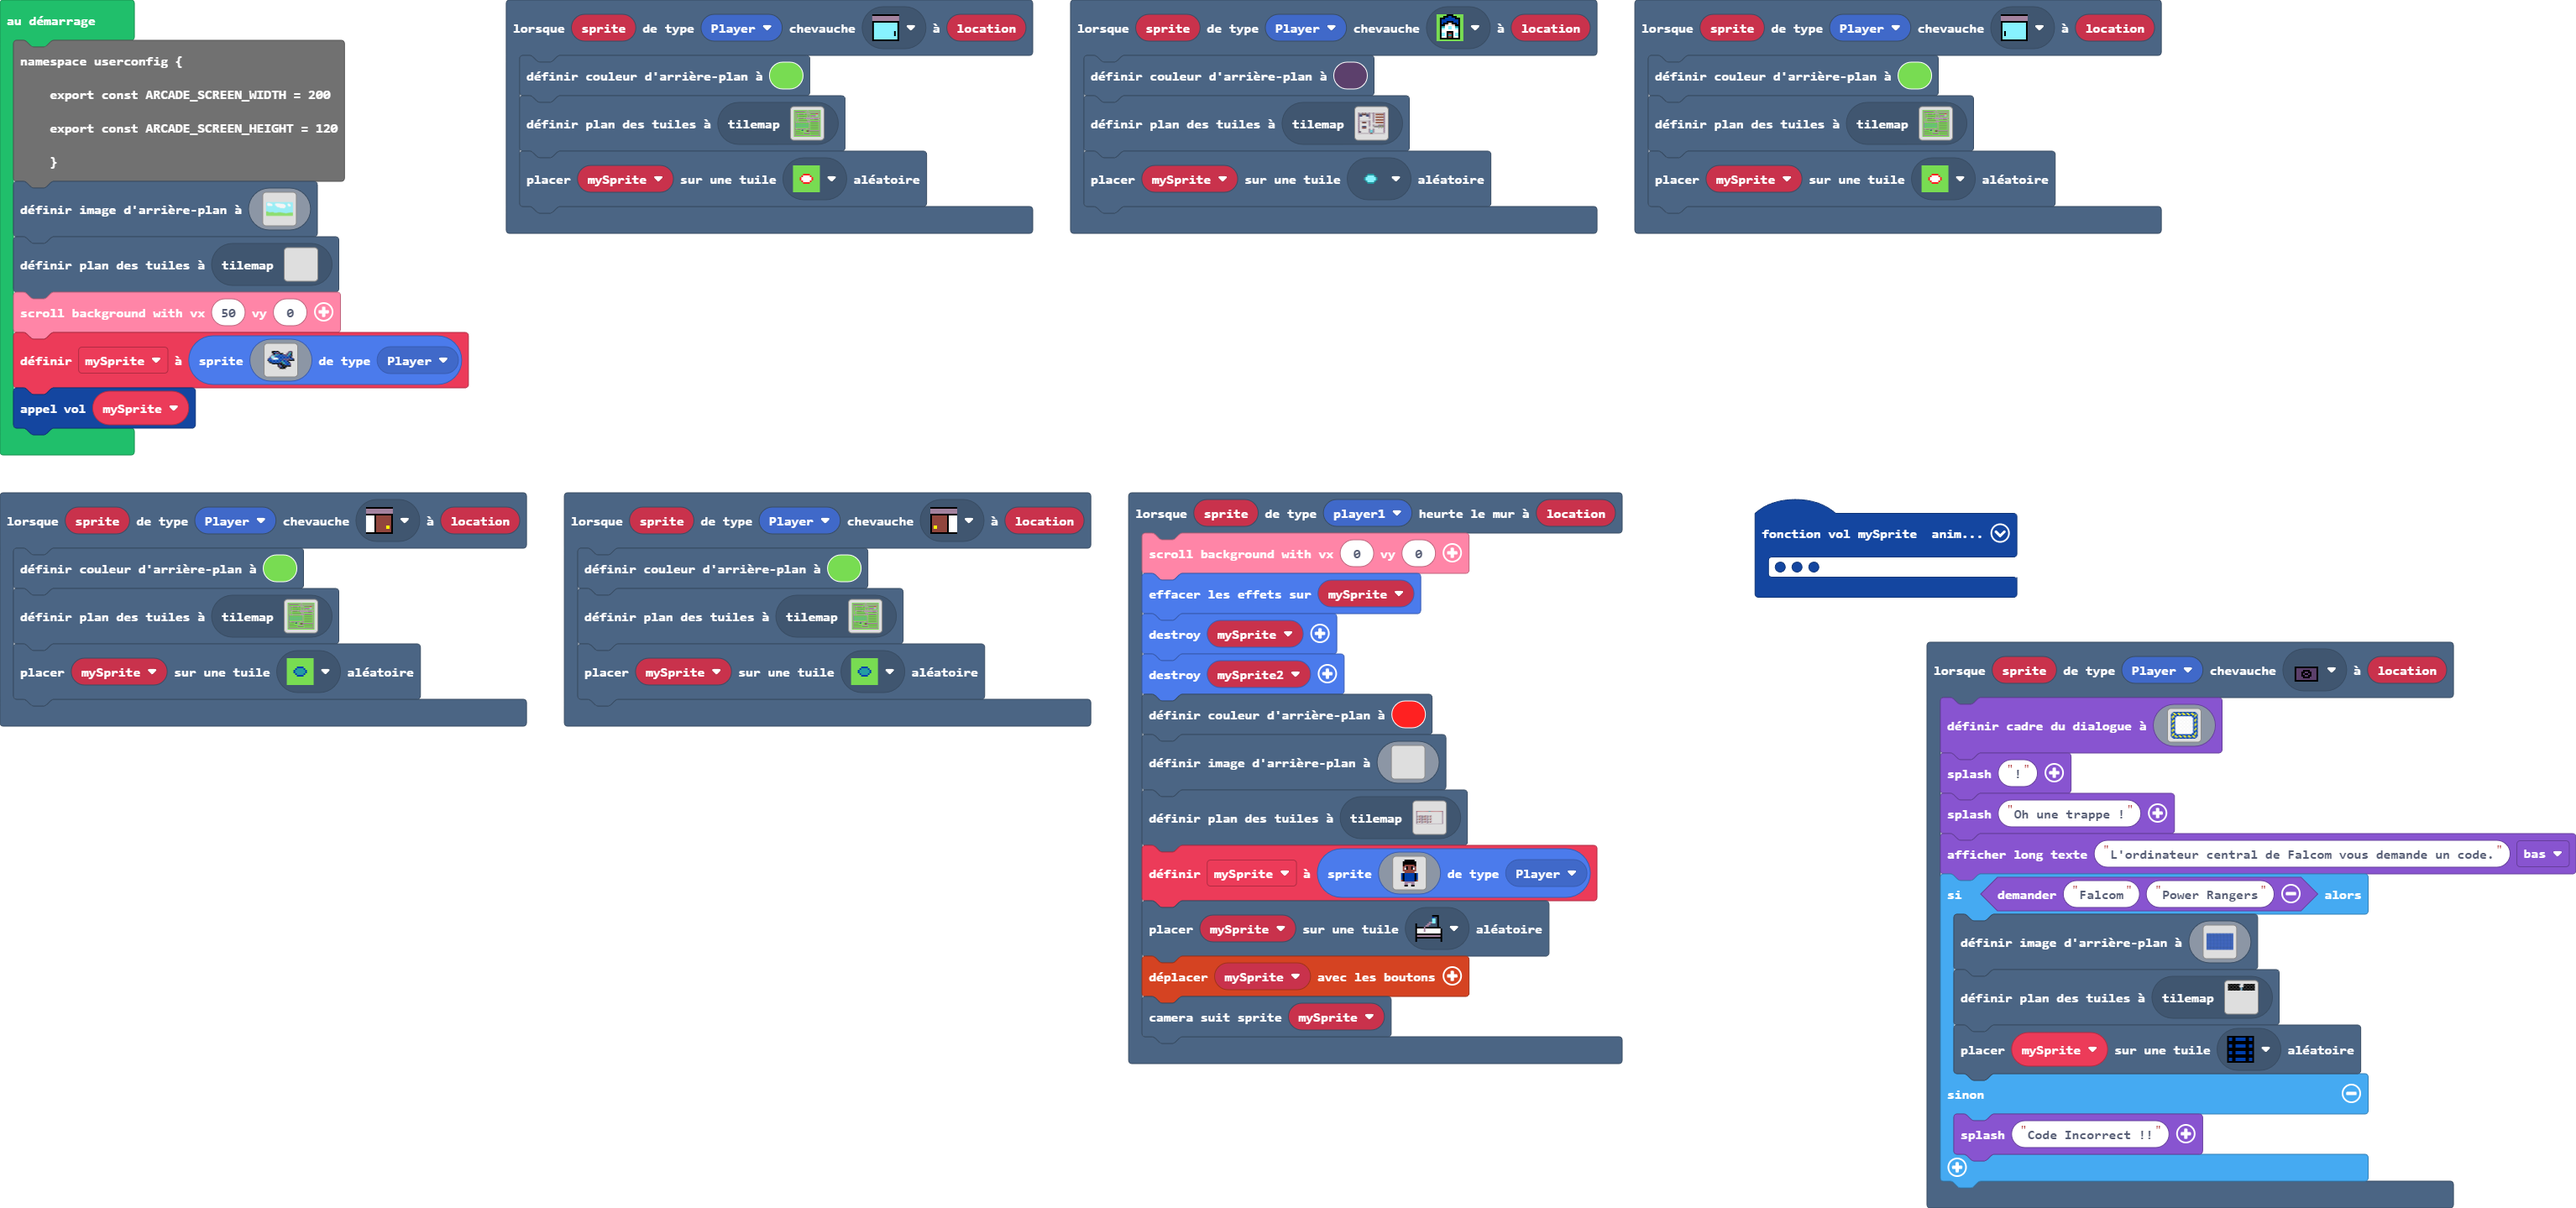
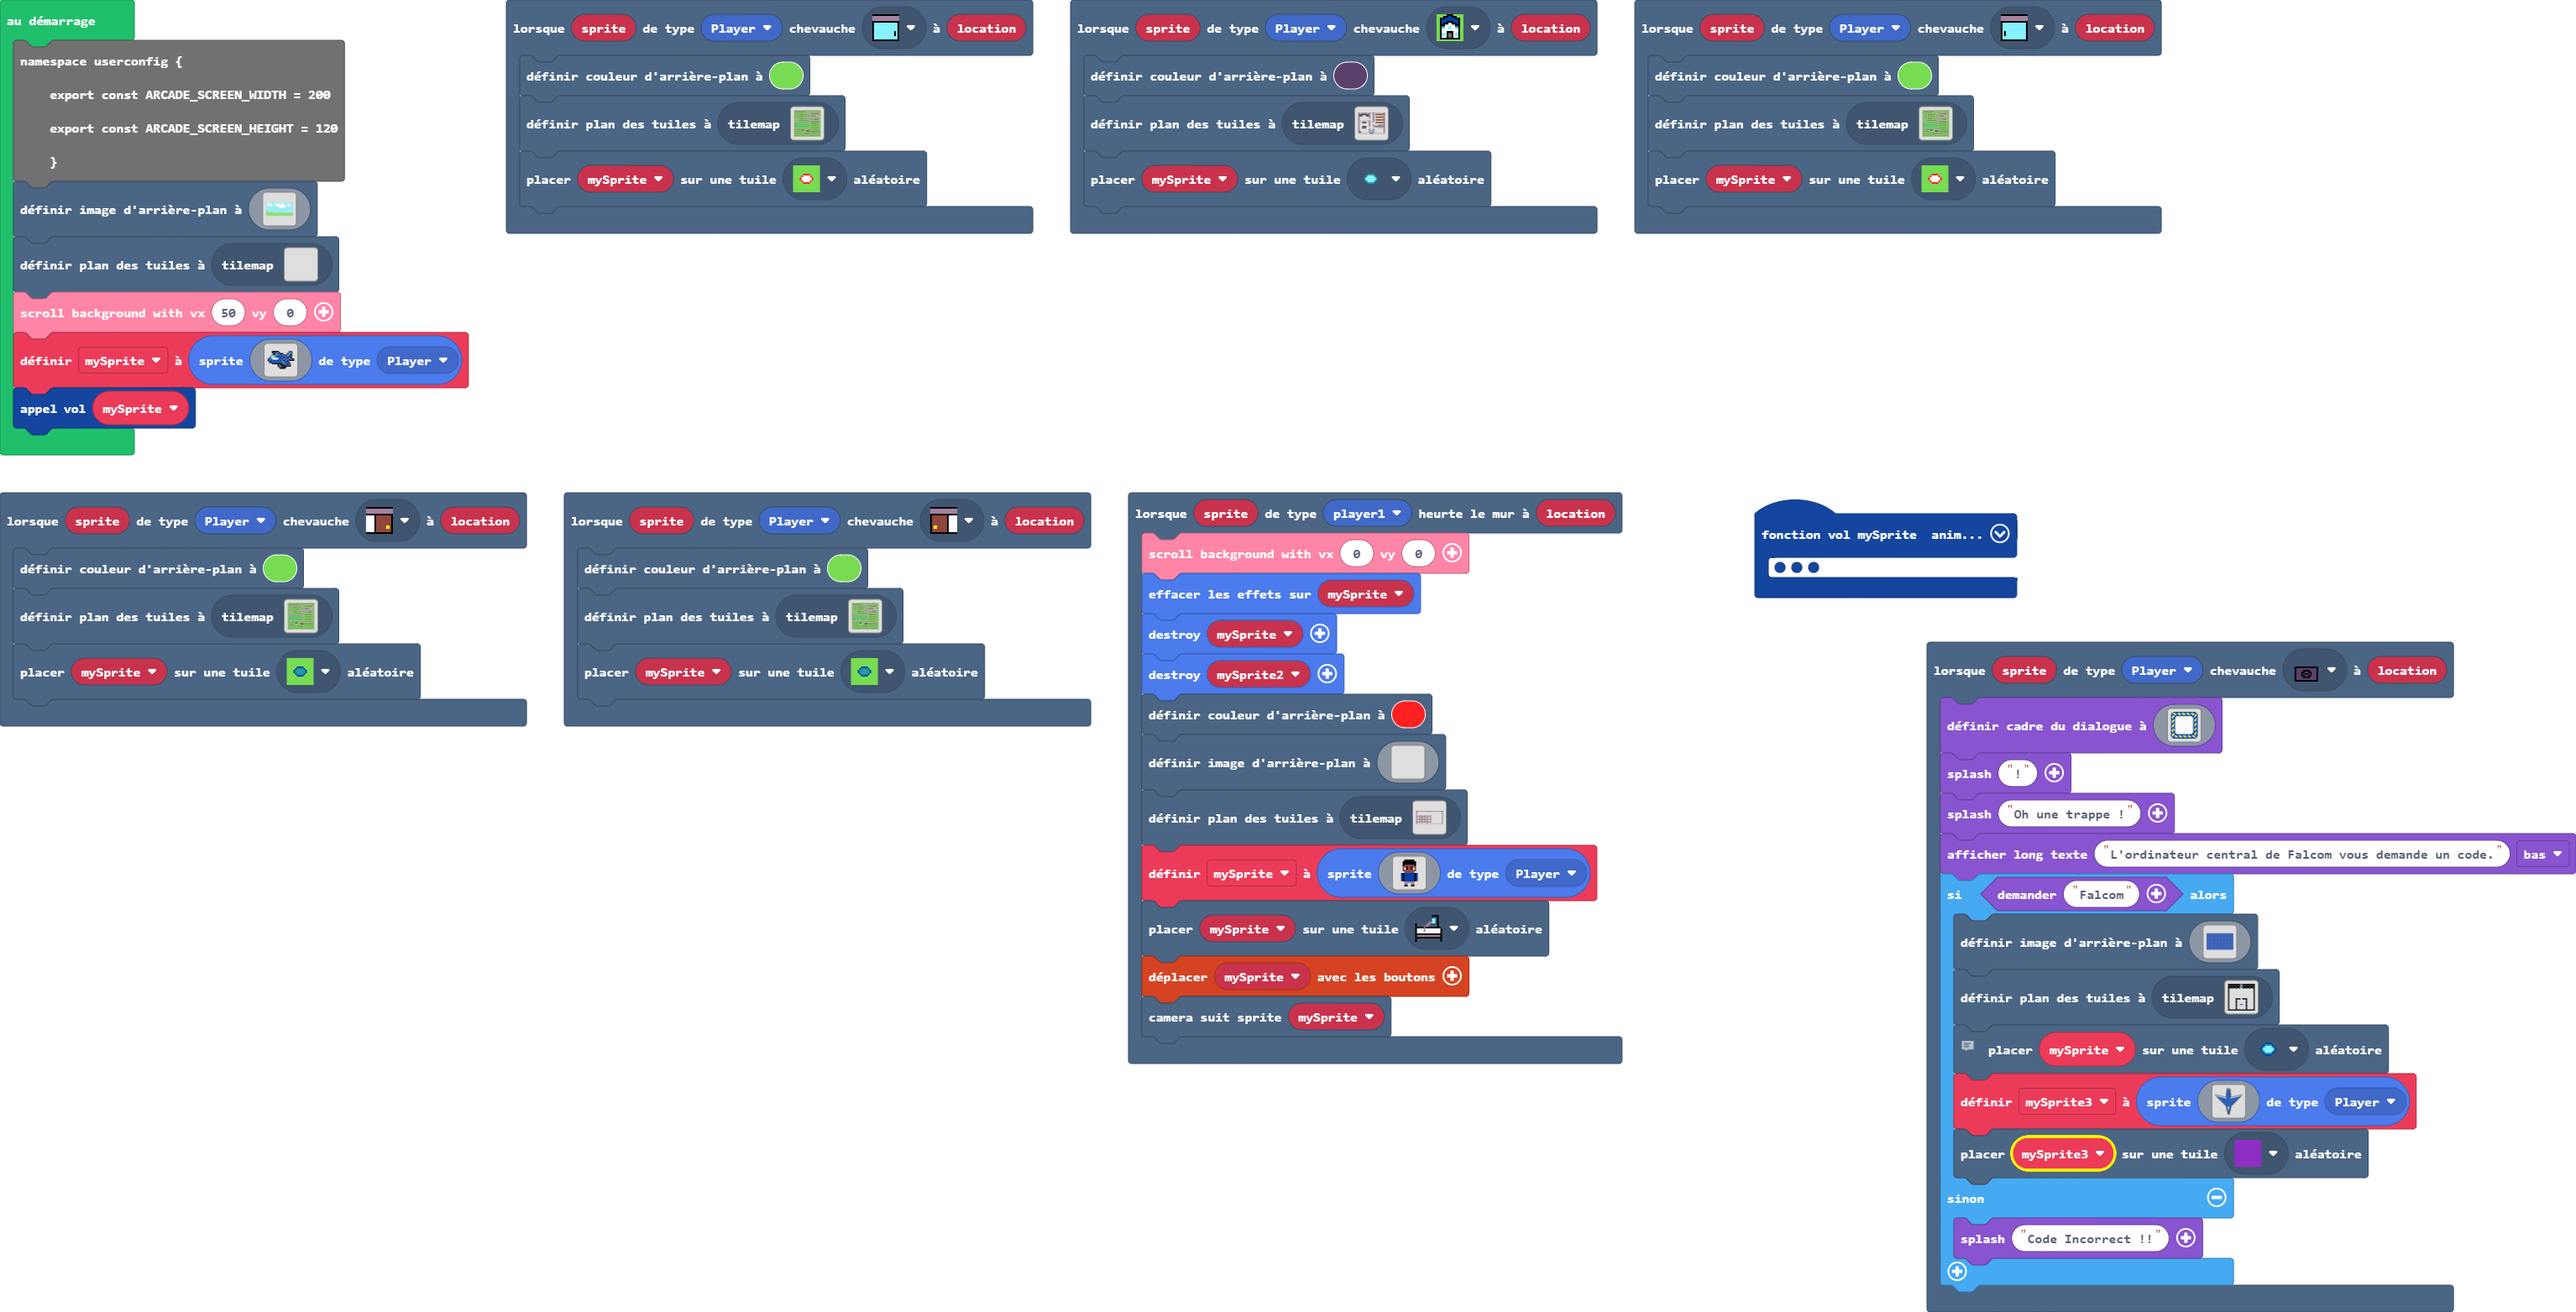
Mise à jour main.blocks, main.ts, tilemap.g.jres, tilemap.g.ts

Changed region(s): [[0.0, 0.0, 0.6503, 0.8867], [0.6812, 0.3669, 1.0, 0.9785], [0.1858, 0.0, 0.836, 0.214]]

diff --git a/main.ts b/main.ts
@@ -347,7 +347,7 @@ scene.onOverlapTile(SpriteKind.Player, assets.tile`myTile90`, function (sprite, 
     game.splash("!")
     game.splash("Oh une trappe !")
     game.showLongText("L'ordinateur central de Falcom vous demande un code.", DialogLayout.Bottom)
-    if (game.ask("Falcom", "Power Rangers")) {
+    if (game.ask("Falcom")) {
         scene.setBackgroundImage(img`
             88888888888888888888888888888888888888888888888888888888888888888888888888888888888888888888888888888888888888888888888888888888888888888888888888888888888888888888888888888888888888888888888888888888
             88888888888888888888888888888888888888888888888888888888888888888888888888888888888888888888888888888888888888888888888888888888888888888888888888888888888888888888888888888888888888888888888888888888
@@ -471,7 +471,74 @@ scene.onOverlapTile(SpriteKind.Player, assets.tile`myTile90`, function (sprite, 
             88888888888888888888888888888888888888888888888888888888888888888888888888888888888888888888888888888888888888888888888888888888888888888888888888888888888888888888888888888888888888888888888888888888
             `)
         tiles.setCurrentTilemap(tilemap`niveau16`)
-        tiles.placeOnRandomTile(mySprite, assets.tile`myTile96`)
+        tiles.placeOnRandomTile(mySprite, assets.tile`myTile102`)
+        mySprite3 = sprites.create(img`
+            ................................................................
+            .............................fffff..............................
+            ............................fbbbbbf.............................
+            ...........................fbbbbbbbf............................
+            ...........................fbbbbbbbf............................
+            ...........................fbfffffbf............................
+            ...........................ff88888ff............................
+            ...........................f8888888f............................
+            ...........................f8888888f............................
+            ...........................f8888888f............................
+            ...........................f8888888f............................
+            ...........................f8888888f............................
+            ..........................f888888888f...........................
+            ..........................f888888888f...........................
+            ..........................f888888888f...........................
+            ..........................f888888888f...........................
+            fff.......................f888888888f........................fff
+            f11ffff...................f888888888f....................ffff11f
+            .f11111ffff...............f888888888f................ffff11111f.
+            ..f11111111fffff..........f888888888f...........fffff11111111f..
+            ...f888111111111ffff......f888888888f.......ffff111111111888f...
+            ....f888888111111111ffff..f888888888f...ffff111111111888888f....
+            .....f888888888811111111fff888888888ffff111111118888888888f.....
+            ......f88888888888881111111888888888111111118888888888888f......
+            .......f888888888888888811188888888811118888888888888888f.......
+            ........f8888888888888888888888888888888888888888888888f........
+            .........f88888888888888888888888888888888888888888888f.........
+            ..........f888888888888888888888888888888888888888888f..........
+            ...........f8888888888888888888888888888888888888888f...........
+            ............f88888888888888888888888888888888888888f............
+            .............f888888888888888888888888888888888888f.............
+            ..............f8888888888888888888888888888888888f..............
+            ...............f88888888888888888888888888888888f...............
+            ................f888888888888888888888888888888f................
+            .................f8888888888888888888888888888f.................
+            ..................f88888888888888888888888888f..................
+            ...................f888888888888888888888888f...................
+            ....................f8888888888888888888888f....................
+            .....................f88888888888888888888f.....................
+            ......................f888888888888888888f......................
+            .......................f8888888888888888f.......................
+            ........................f88888888888888f........................
+            .........................f888888888888f.........................
+            ..........................f888ffff888f..........................
+            ..........................f88f9999f88f..........................
+            ..........................f88f9999f88f..........................
+            ..........................f88f9999f88f..........................
+            ...........................f8f9999f8f...........................
+            ...........................f8f9999f8f...........................
+            ...........................f8f9999f8f...........................
+            ...........................f88f99f88f...........................
+            ............................f8f99f8f............................
+            ............................f8f99f8f............................
+            ............................f8f99f8f............................
+            ............................f88ff88f............................
+            .............................f8888f.............................
+            .............................f8888f.............................
+            .............................f8888f.............................
+            .............................f8888f.............................
+            ..............................f88f..............................
+            ..............................f88f..............................
+            ..............................f88f..............................
+            ..............................f88f..............................
+            ...............................ff...............................
+            `, SpriteKind.Player)
+        tiles.placeOnRandomTile(mySprite3, sprites.swamp.swampTile9)
     } else {
         game.splash("Code Incorrect !!")
     }
@@ -496,6 +563,7 @@ scene.onOverlapTile(SpriteKind.Player, assets.tile`myTile70`, function (sprite, 
     tiles.setCurrentTilemap(tilemap`niveau13`)
     tiles.placeOnRandomTile(mySprite, assets.tile`myTile63`)
 })
+let mySprite3: Sprite = null
 let mySprite2: Sprite = null
 let mySprite: Sprite = null
 namespace userconfig {

diff --git a/tilemap.g.ts b/tilemap.g.ts
@@ -206,6 +206,12 @@ namespace myTiles {
     export const tile99 = image.ofBuffer(hex``);
     //% fixedInstance jres blockIdentity=images._tile
     export const tile101 = image.ofBuffer(hex``);
+    //% fixedInstance jres blockIdentity=images._tile
+    export const tile102 = image.ofBuffer(hex``);
+    //% fixedInstance jres blockIdentity=images._tile
+    export const tile103 = image.ofBuffer(hex``);
+    //% fixedInstance jres blockIdentity=images._tile
+    export const tile104 = image.ofBuffer(hex``);
 
     helpers._registerFactory("tilemap", function(name: string) {
         switch(helpers.stringTrim(name)) {
@@ -502,32 +508,32 @@ namespace myTiles {
 . . . . . . . . . . . . . . . . 
 `, [myTiles.transparency16], TileScale.Sixteen);
             case "niveau16":
-            case "niveau16":return tiles.createTilemap(hex`18001800020202020202020202020100000002020202020202020202020202020202020202020000000002020202020202020202020202020202020202020000000002020202020202020202020202020202020202020200030202020202020202020202020202020202020202020204000202020202020202020202020202020202020202020200030202020202020202020202000000000000000000000000000000000000000000000000000000000000000000000000000000000000000000000000000000000000000000000000000000000000000000000000000000000000000000000000000000000000000000000000000000000000000000000000000000000000000000000000000000000000000000000000000000000000000000000000000000000000000000000000000000000000000000000000000000000000000000000000000000000000000000000000000000000000000000000000000000000000000000000000000000000000000000000000000000000000000000000000000000000000000000000000000000000000000000000000000000000000000000000000000000000000000000000000000000000000000000000000000000000000000000000000000000000000000000000000000000000000000000000000000000000000000000000000000000000000000000000000000000000000000000000000000000000000000000000000000000000000000000000000000000000000000000000000000000000000000000000000000000000000000000000000`, img`
-2222222222....2222222222
-2222222222....2222222222
-2222222222....2222222222
+            case "niveau16":return tiles.createTilemap(hex`18001800010101010101010101010103040101010101010101010101010101010101010101010100000101010101010101010101010101010101010101010105050101010101010101010101010101010101010101010100020101010101010101010101010000000000000000000000000000000000000000000001010000000000000000000000000000000000000000000001010000000000000000000000000000000000000000000001010000000000000000000000000000000000000000000001010000000000000000000000000000000000000000000001010000000000000000000000000000000000000000000001010000000000000000000000000000000000000000000001010000000000000000000000000000000000000000000001010000000000000000000000000000000000000000000001010000000000000101010100000101010100000000000001010000000000000100000000000000000100000000000001010000000000000100000000000000000100000000000001010000000000000100000000000000000100000000000001010000000000000100000000000000000100000000000001010000000000000100000006060000000100000000000001010000000000000100000000000000000100000000000001010000000000000100000000000000000100000000000001010000000000000100000000000000000100000000000001010000000000000100000000000000000100000000000001010101010101010101010101010101010101010101010101`, img`
 22222222222..22222222222
 22222222222..22222222222
 22222222222..22222222222
-........................
-........................
-........................
-........................
-........................
-........................
-........................
-........................
-........................
-........................
-........................
-........................
-........................
-........................
-........................
-........................
-........................
-........................
-`, [myTiles.transparency16,myTiles.tile98,sprites.builtin.forestTiles10,myTiles.tile99,myTiles.tile101], TileScale.Sixteen);
+22222222222..22222222222
+2......................2
+2......................2
+2......................2
+2......................2
+2......................2
+2......................2
+2......................2
+2......................2
+2......................2
+2......2222..2222......2
+2......2........2......2
+2......2........2......2
+2......2........2......2
+2......2........2......2
+2......2........2......2
+2......2........2......2
+2......2........2......2
+2......2........2......2
+2......2........2......2
+222222222222222222222222
+`, [myTiles.transparency16,sprites.builtin.forestTiles10,myTiles.tile99,myTiles.tile102,myTiles.tile103,myTiles.tile104,sprites.swamp.swampTile9], TileScale.Sixteen);
         }
         return null;
     })
@@ -738,6 +744,12 @@ namespace myTiles {
             case "tile99":return tile99;
             case "myTile99":
             case "tile101":return tile101;
+            case "myTile100":
+            case "tile102":return tile102;
+            case "myTile101":
+            case "tile103":return tile103;
+            case "myTile102":
+            case "tile104":return tile104;
         }
         return null;
     })
